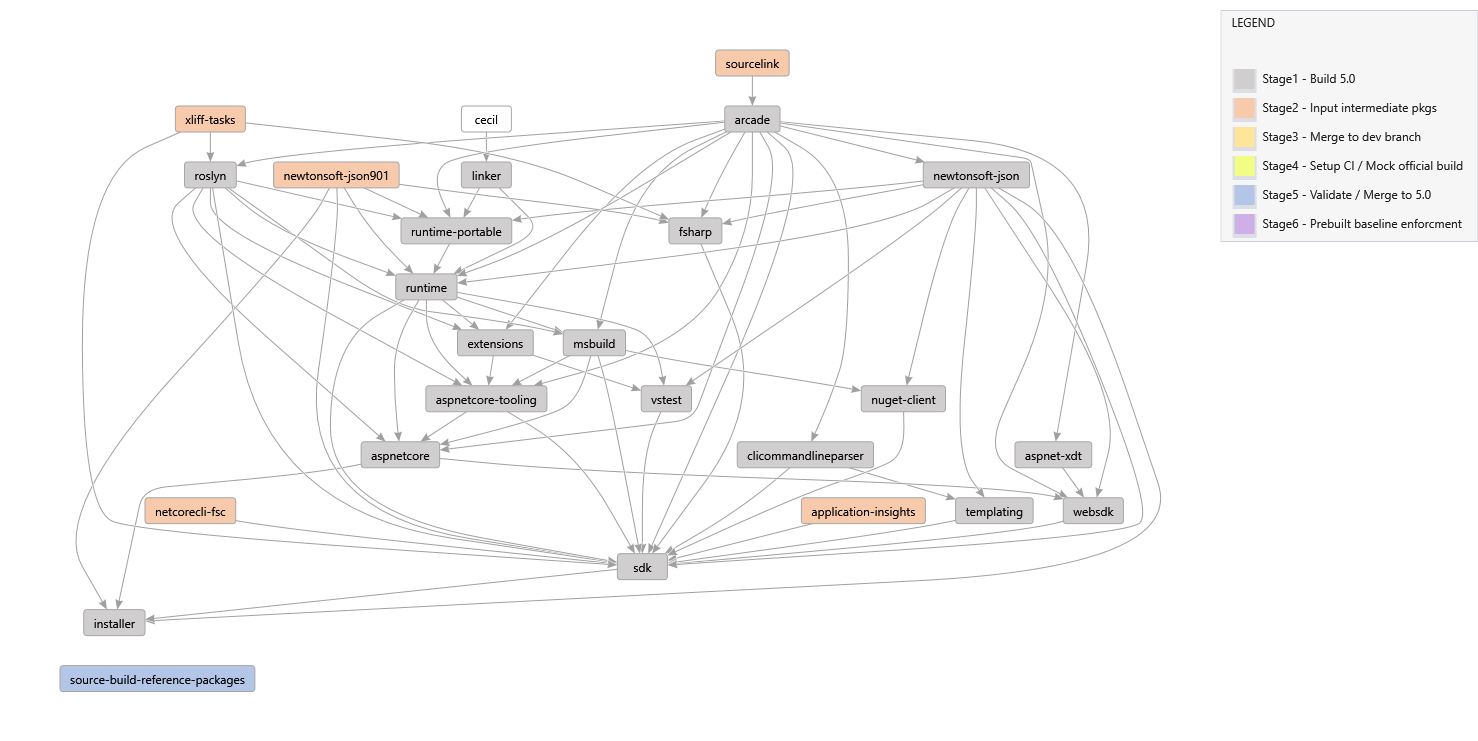
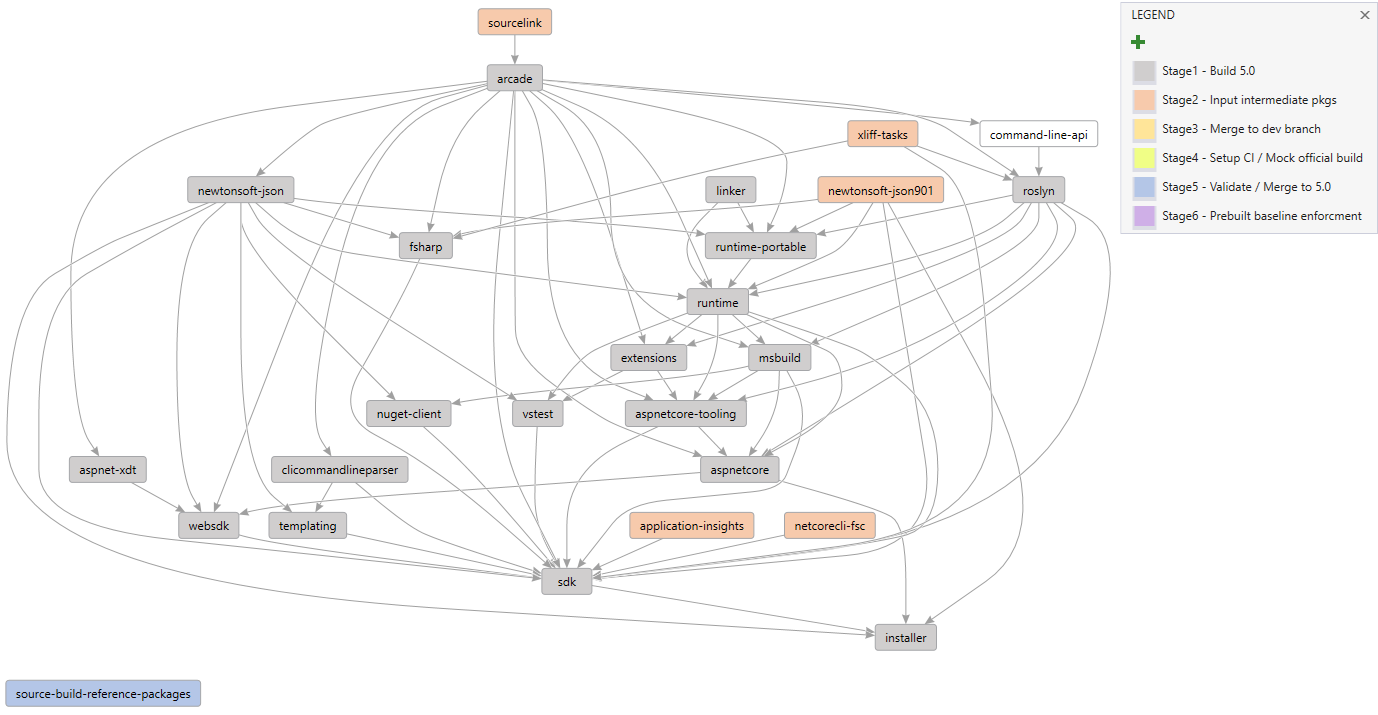
Update arcade-powered source-build repo list

diff --git a/Documentation/planning/arcade-powered-source-build/implementation-plan.md b/Documentation/planning/arcade-powered-source-build/implementation-plan.md
@@ -10,7 +10,6 @@ To get each repo building with the new source-build 5.0 plan, [Arcade-Powered So
 | sbrp | Source-build-reference-packages | [Dan Seefeldt](https://github.com/dseefeld) | ✔ | ✔ | ✔ | ✔ | ✔ | |
 | Tools | sourcelink | [Tomas Matousek](https://github.com/tmat) | ✔ | ✔ | | | | |
 | Tools | arcade | [Mark Wilkie](https://github.com/markwilkie) | ✔ | | | | | |
-| Tools | cecil | [Dan Seefeldt](https://github.com/dseefeld) | [⏱ #1537](https://github.com/dotnet/source-build/issues/1537) | ✔ | | | | |
 | 1 | application-insights | [Reiley Yang](https://github.com/reyang) | ✔ | ✔ | | | | |
 | 1 | aspnet-xdt | [Vijay Ramakrishnan](https://github.com/vijayrkn) | ✔ | | | | | |
 | 1 | newtonsoft-json | [Chris Rummel](https://github.com/crummel) | ✔ | | | | | |
@@ -18,6 +17,7 @@ To get each repo building with the new source-build 5.0 plan, [Arcade-Powered So
 | 1 | newtonsoft-json901 | [Chris Rummel](https://github.com/crummel) | ✔ | ✔ | | | | |
 | 1 | xliff-tasks | [Mark Wilkie](https://github.com/markwilkie) | ✔ | ✔ | | | | |
 | 1 | clicommandlineparser | [Sarah Oslund](https://github.com/sfoslund) | ✔ | | | | | |
+| 1 | command-line-api | [?](https://github.com/) | ⏱ | | | | | |
 | 1 | roslyn | [Fred Silberberg](https://github.com/333fred) | ✔ | | | | | |
 | 2 | linker | [Dan Seefeldt](https://github.com/dseefeld) | ✔ | | | | | |
 | 2 | runtime | [Jared Parsons](https://github.com/jaredpar) | ✔ | | | | | |
